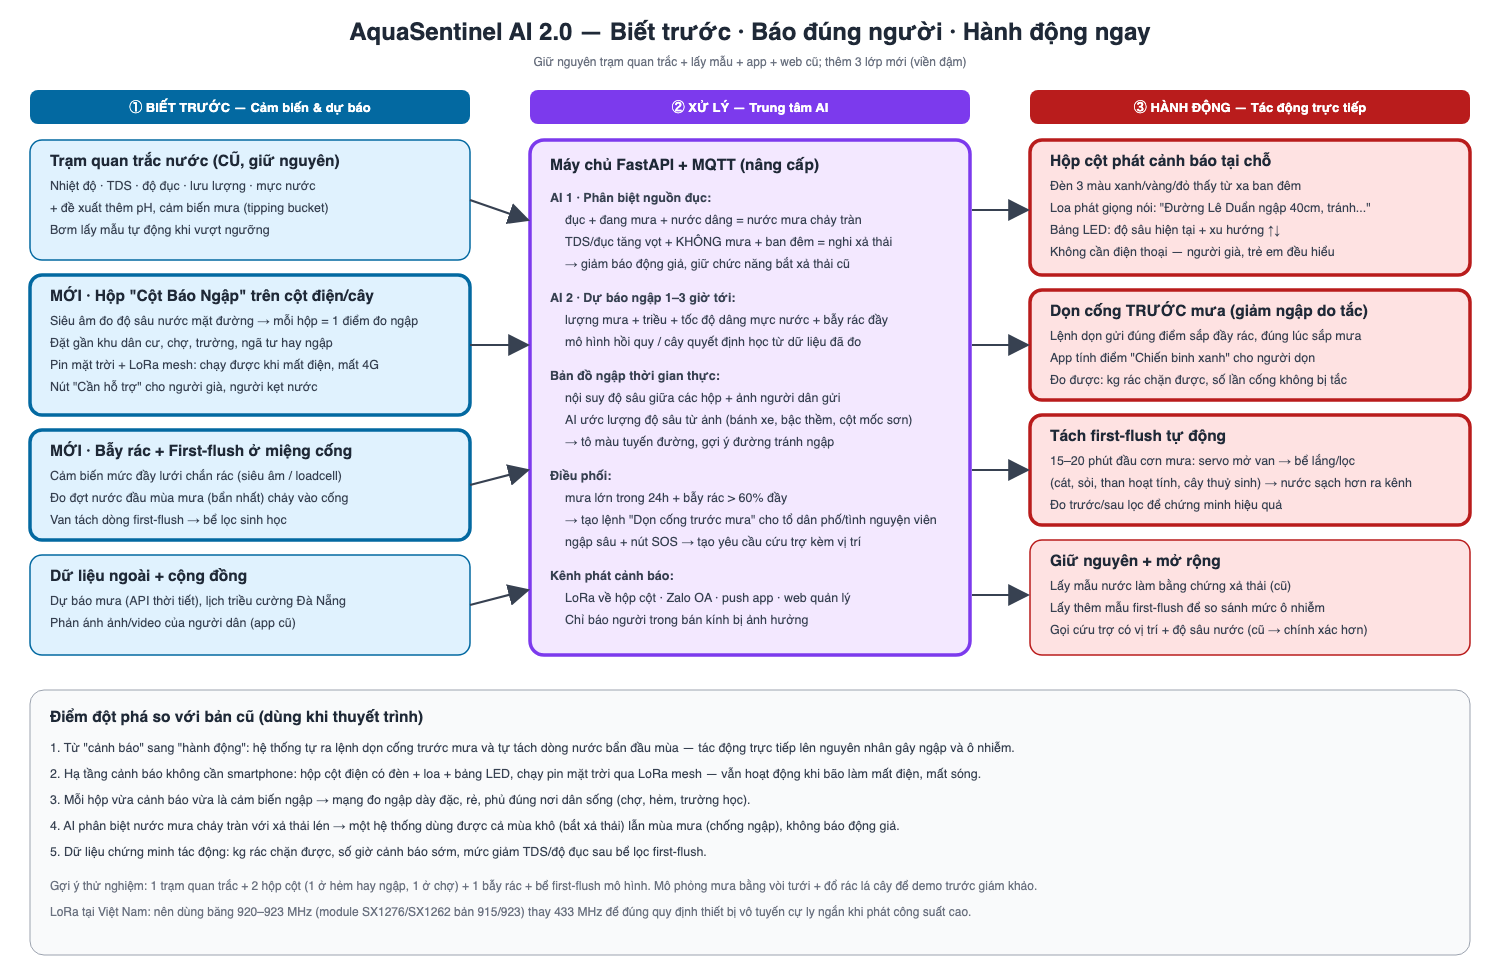
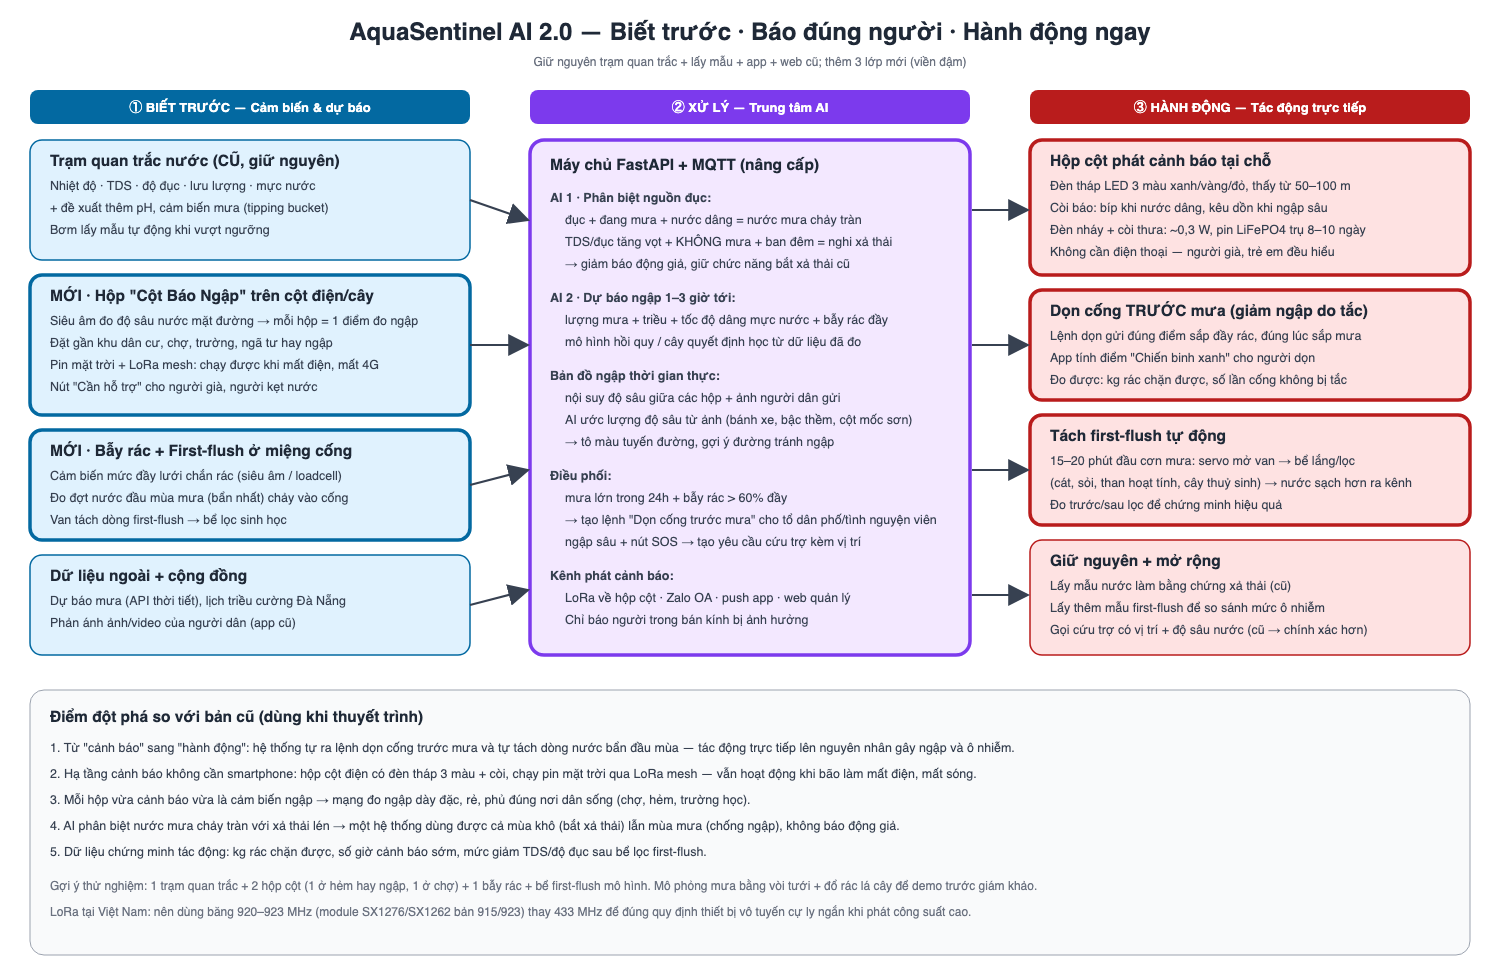
aquasentinel-2: beacon uses 3-colour tower light + buzzer, LiFePO4 power, full BOM

Changed region(s): [[0.7053, 0.1837, 0.92, 0.2449], [0.276, 0.7653, 0.644, 0.7959]]

diff --git a/aquasentinel-2/diagram.html b/aquasentinel-2/diagram.html
@@ -63,9 +63,9 @@ text{fill:#1f2937;font-size:14px}.t{font-weight:700;font-size:15.5px}.s{font-siz
 <!-- col 3 -->
 <rect x="1030" y="140" width="440" height="135" rx="12" fill="#fee2e2" stroke="#b91c1c" stroke-width="3.5"/>
 <text x="1050" y="166" class="t">Hộp cột phát cảnh báo tại chỗ</text>
-<text x="1050" y="190" class="s">Đèn 3 màu xanh/vàng/đỏ thấy từ xa ban đêm</text>
-<text x="1050" y="212" class="s">Loa phát giọng nói: "Đường Lê Duẩn ngập 40cm, tránh..."</text>
-<text x="1050" y="234" class="s">Bảng LED: độ sâu hiện tại + xu hướng ↑↓</text>
+<text x="1050" y="190" class="s">Đèn tháp LED 3 màu xanh/vàng/đỏ, thấy từ 50–100 m</text>
+<text x="1050" y="212" class="s">Còi báo: bíp khi nước dâng, kêu dồn khi ngập sâu</text>
+<text x="1050" y="234" class="s">Đèn nháy + còi thưa: ~0,3 W, pin LiFePO4 trụ 8–10 ngày</text>
 <text x="1050" y="256" class="s">Không cần điện thoại — người già, trẻ em đều hiểu</text>
 
 <rect x="1030" y="290" width="440" height="110" rx="12" fill="#fee2e2" stroke="#b91c1c" stroke-width="3.5"/>
@@ -96,7 +96,7 @@ text{fill:#1f2937;font-size:14px}.t{font-weight:700;font-size:15.5px}.s{font-siz
 <rect x="30" y="690" width="1440" height="265" rx="14" fill="#f9fafb" stroke="#9ca3af"/>
 <text x="50" y="722" class="t">Điểm đột phá so với bản cũ (dùng khi thuyết trình)</text>
 <text x="50" y="752" class="s">1. Từ "cảnh báo" sang "hành động": hệ thống tự ra lệnh dọn cống trước mưa và tự tách dòng nước bẩn đầu mùa — tác động trực tiếp lên nguyên nhân gây ngập và ô nhiễm.</text>
-<text x="50" y="778" class="s">2. Hạ tầng cảnh báo không cần smartphone: hộp cột điện có đèn + loa + bảng LED, chạy pin mặt trời qua LoRa mesh — vẫn hoạt động khi bão làm mất điện, mất sóng.</text>
+<text x="50" y="778" class="s">2. Hạ tầng cảnh báo không cần smartphone: hộp cột điện có đèn tháp 3 màu + còi, chạy pin mặt trời qua LoRa mesh — vẫn hoạt động khi bão làm mất điện, mất sóng.</text>
 <text x="50" y="804" class="s">3. Mỗi hộp vừa cảnh báo vừa là cảm biến ngập → mạng đo ngập dày đặc, rẻ, phủ đúng nơi dân sống (chợ, hẻm, trường học).</text>
 <text x="50" y="830" class="s">4. AI phân biệt nước mưa chảy tràn với xả thải lén → một hệ thống dùng được cả mùa khô (bắt xả thải) lẫn mùa mưa (chống ngập), không báo động giả.</text>
 <text x="50" y="856" class="s">5. Dữ liệu chứng minh tác động: kg rác chặn được, số giờ cảnh báo sớm, mức giảm TDS/độ đục sau bể lọc first-flush.</text>

diff --git a/aquasentinel-2/README.md b/aquasentinel-2/README.md
@@ -30,7 +30,7 @@
 ### ③ Hành động trực tiếp (phần "đột phá")
 | Tác động | Cách làm | Đo hiệu quả bằng |
 |---|---|---|
-| Cảnh báo tại chỗ, không cần điện thoại | Hộp cột: tấm LED 8x32 chạy chữ đổi màu xanh/vàng/đỏ, hiện độ sâu và lời khuyên ([flood_beacon.ino](flood_beacon.ino)) | Số phút cảnh báo sớm trước khi ngập |
+| Cảnh báo tại chỗ, không cần điện thoại | Hộp cột: đèn tháp LED 3 màu có còi. Xanh chớp = an toàn, vàng nháy + bíp = nước đang dâng, đỏ nháy + còi = không đi qua ([flood_beacon.ino](flood_beacon.ino)) | Số phút cảnh báo sớm trước khi ngập |
 | **Dọn cống TRƯỚC mưa** | Sắp mưa lớn trong 24h và bẫy rác > 60% thì tự tạo lệnh dọn cho tổ dân phố/tình nguyện viên. App tính điểm "Chiến binh xanh" | kg rác chặn được, số lần cống không tắc |
 | **Giữ nước mưa đợt đầu tại cửa xả** | Gắn hộp tại giếng tách dòng của cửa xả ven biển: mưa bắt đầu thì đóng cửa phai ra biển, bơm đợt đầu vào cống bao; nước trong lại thì mở; nước dâng cao thì mở ngay chống ngập ([FIRST_FLUSH.md](FIRST_FLUSH.md)) | Độ đục/TDS nước ra biển khi có và không có hệ thống |
 | Cứu trợ chính xác | Nút SOS trên hộp cột gửi vị trí + độ sâu nước thật | Thời gian phản hồi yêu cầu |
@@ -41,31 +41,90 @@
 
 ## 4. Mô hình demo trước giám khảo
 - 1 trạm quan trắc (cũ) + 2 hộp cột (1 ở hẻm hay ngập, 1 ở chợ) + 1 bẫy rác + mô hình cửa xả + giếng tách dòng bằng hộp mica.
-- Mô phỏng mưa bằng bình tưới. Đổ lá cây/rác vào lưới để kích hoạt lệnh dọn. Dâng nước trong khay để chữ trên hộp cột chuyển vàng rồi đỏ ("NGAP 35cm - KHONG DI QUA").
+- Mô phỏng mưa bằng bình tưới. Đổ lá cây/rác vào lưới để kích hoạt lệnh dọn. Dâng nước trong khay để đèn hộp cột chuyển vàng rồi đỏ, còi kêu.
 
 ## 5. Linh kiện thêm (ước tính)
 | Hạng mục | Linh kiện | Giá tham khảo |
 |---|---|---|
-| Hộp cột (mỗi hộp) | ESP32, LoRa SX1276 923MHz, JSN-SR04T, tấm LED WS2812B 8x32 dẻo (~200k), mạch hạ áp 5V 3A, tụ 1000µF, nút nhấn chống nước, pin 18650 x2 + tấm pin mặt trời 6V, hộp IP65 | ~600–800k |
+| Hộp cột (mỗi hộp) | Xem danh sách đầy đủ ở mục 6 | ~1,9–2,7 tr (bản demo bàn ~1,1–1,4 tr) |
 | Bẫy rác | Lưới inox, siêu âm hoặc loadcell 20kg + HX711 | ~200k |
 | Cửa xả thông minh | ESP32 + LoRa, tipping bucket, độ đục SEN0189, JSN-SR04T, servo + mica, bơm mini | ~950k |
 | Trạm cũ bổ sung | Cảm biến pH analog, cảm biến mưa tipping bucket | ~400k |
 
-## 6. Đấu nối hộp cột (tấm LED chạy chữ)
-Bỏ DFPlayer + loa + dải 12 LED. Tấm LED chỉ cần 3 dây:
+## 6. Hộp cột: đèn tháp 3 màu có còi
 
-| Tấm WS2812B 8x32 | Nối tới |
-|---|---|
-| 5V (dây đỏ) | 5V của mạch hạ áp 5V 3A, **không** lấy từ chân 5V của ESP32 |
-| GND (dây trắng/đen) | GND chung với ESP32 |
-| DIN (dây xanh, đầu có mũi tên vào) | GPIO27 qua điện trở 330Ω |
+### Vì sao bỏ tấm LED chạy chữ
+| | Tấm WS2812B 8x32 | Đèn tháp LED 3 màu + còi |
+|---|---|---|
+| Ngoài trời | Phải nằm sau mặt kính, nắng gắt khó đọc, LED dễ chết lẻ | Vỏ IP65, thiết kế cho nhà xưởng/ngoài trời |
+| Nhìn từ xa | Chữ nhỏ, phải lại gần mới đọc | Thấy màu từ 50–100 m, cả khi mưa |
+| Người không đọc được chữ / trẻ em / ban đêm | Khó hiểu | Xanh–vàng–đỏ ai cũng hiểu, còi báo cả người không nhìn |
+| Điện | 1,5–3 W liên tục | ~0,3–0,4 W trung bình (đèn nháy, còi thưa) |
+| Dây | 5V lớn + tín hiệu nhạy nhiễu | 12V, 5 dây, bật/tắt đơn giản |
 
-- Tụ 1000µF 10V cắm ngang 5V–GND ngay đầu tấm LED, chống sụt áp lúc bật.
-- Pin 2×18650 (7.4V) → mạch hạ áp → 5V cho tấm LED và chân 5V/VIN của ESP32.
-- Độ sáng 60/255 tốn khoảng 0.3–0.6A. Để 255 trắng toàn tấm sẽ lên ~15A, không dùng.
-- Nếu tấm chập chờn: dây DIN ngắn dưới 20cm, hoặc thêm IC 74AHCT125 nâng tín hiệu 3.3V lên 5V.
-- Chữ bị ngược/lộn: sửa `NEO_MATRIX_TOP`/`LEFT` trong code (tấm mỗi hãng đi dây khác nhau).
-- Font không có dấu nên chữ viết không dấu. Muốn ghép thêm 1 tấm cho dài hơn: nối DOUT tấm 1 vào DIN tấm 2 và đổi `32` thành `64`.
+### Cách báo
+| Mức | Đèn | Còi |
+|---|---|---|
+| An toàn | Xanh chớp 0,1 s mỗi 5 s ("hộp đang sống") | Tắt |
+| Chú ý (≥ 10 cm hoặc trung tâm dự báo) | Vàng nháy 1 Hz | Bíp dồn 10 s khi vừa lên mức, sau đó 1 bíp / 2 phút |
+| Nguy hiểm (≥ 30 cm) | Đỏ nháy 2 Hz | Kêu dồn 10 s, sau đó 3 bíp / 30 s |
+| Vừa bấm SOS | 3 màu chạy vòng 30 s | Bíp ngắn mỗi 2 s |
+| Bật nguồn | Đỏ → vàng → xanh + 1 bíp (tự kiểm) | |
+
+### Đấu nối
+```
+Tấm pin 10W 18V ─[TVS SMBJ24A]─ Bộ sạc solar 12V (chế độ LiFePO4) ─ Pin LiFePO4 12,8V 6Ah
+                                          │ (cổng LOAD)
+                                    [Cầu chì 2A] ── BUS 12V ──┬── dây CHUNG đèn tháp (+12V)
+                                                              ├── ULN2003 chân 9 (COM, chống xung ngược của còi)
+                                                              └── Buck 12V→5V ── ESP32 VIN, JSN-SR04T 5V
+                                                                    (tụ 470µF 25V ở đầu vào buck)
+ESP32 GPIO27 → ULN2003 IN1 → OUT1 → dây ĐỎ
+ESP32 GPIO4  → ULN2003 IN2 → OUT2 → dây VÀNG
+ESP32 GPIO13 → ULN2003 IN3 → OUT3 → dây XANH
+ESP32 GPIO16 → ULN2003 IN4 → OUT4 → dây CÒI
+ULN2003 chân 8 (GND) ── GND chung ESP32 ── âm pin
+JSN-SR04T: TRIG → GPIO32; ECHO → 1kΩ → GPIO33, GPIO33 → 2kΩ → GND (hạ 5V xuống 3,3V)
+Nút SOS: GPIO25 ↔ GND (dùng điện trở kéo lên trong ESP32)
+LoRa SX1276: NSS 5, RST 14, DIO0 26, SCK 18, MISO 19, MOSI 23, 3,3V
+```
+- **Mua đèn loại 12VDC, CHUNG DƯƠNG** (dây đen/chung nối +12V, từng màu nối xuống GND thì sáng). Đa số đèn tháp mini LTA-205 bản DC là loại này, nhưng hỏi shop hoặc thử bằng nguồn 12V trước khi đấu. Mua nhầm loại chung âm thì thay ULN2003 bằng module 4 relay.
+- ULN2003 chịu 500 mA/kênh, thừa cho đèn LED (~20–50 mA/màu) và còi (~20–40 mA).
+- Ước tính điện: ESP32 + LoRa nghe ~0,25–0,3 W, đèn + còi trung bình < 0,1 W → ~7–9 Wh/ngày. Pin 6Ah (~77 Wh) giữ được **~8–10 ngày mưa không có nắng**; tấm 10 W sạc bù đủ trong 1 ngày nắng.
+
+### Tăng độ bền
+- Pin **LiFePO4** thay 18650: chịu nóng trong hộp phơi nắng tốt hơn, không phồng/cháy, ~2000 chu kỳ.
+- Hộp IP65 + **nút thông hơi chống nước** (chống đọng hơi nước làm rỉ mạch) + gói hút ẩm.
+- Dây ra vào qua **ốc siết cáp**, khoan lỗ dưới đáy hộp, không khoan mặt trên.
+- **Sơn phủ mạch** (conformal coating) sau khi test xong.
+- **TVS** ở đầu tấm pin chống xung sét lan truyền; cầu chì 2A đầu nhánh tải.
+- Đèn tháp gắn **dưới mái che** nhỏ, cảm biến siêu âm có ống che mưa, treo bằng đai inox.
+
+### Danh sách linh kiện cần mua (1 hộp)
+| # | Linh kiện | SL | Giá tham khảo |
+|---|---|---|---|
+| 1 | ESP32 DevKit V1 (ESP32-WROOM-32) | 1 | 90–130k |
+| 2 | LoRa SX1276 băng 915/923 MHz (vd. RA-01H) + anten 923 MHz SMA + dây pigtail | 1 | 180–260k |
+| 3 | Cảm biến siêu âm chống nước JSN-SR04T | 1 | 90–140k |
+| 4 | Đèn tháp LED 3 màu có còi 12VDC, chung dương, IP65 (vd. dòng LTA-205-3 có còi) | 1 | 150–350k |
+| 5 | IC ULN2003A + đế 16 chân (hoặc module ULN2003) | 1 | 10–25k |
+| 6 | Mạch hạ áp 12V → 5V (MP1584 / LM2596) | 1 | 20–40k |
+| 7 | Pin LiFePO4 12,8V 6Ah | 1 | 450–700k |
+| 8 | Tấm pin mặt trời 10W 18V | 1 | 200–300k |
+| 9 | Bộ sạc solar 12V 10A có chế độ Lithium/LiFePO4 | 1 | 120–220k |
+| 10 | Nút nhấn chống nước IP67 Ø16 | 1 | 30–60k |
+| 11 | Hộp nhựa chống nước IP65 ~200×150×100 | 1 | 120–200k |
+| 12 | Ốc siết cáp PG7 ×4, PG9 ×2 | 6 | 25–40k |
+| 13 | Nút thông hơi chống nước M12 | 1 | 20–40k |
+| 14 | Cầu chì + đế 2A, TVS SMBJ24A, tụ 470µF 25V ×2, tụ 100nF ×4 | — | 30–50k |
+| 15 | Điện trở 1kΩ, 2kΩ (chia áp ECHO) | 2 | ~2k |
+| 16 | PCB đục lỗ, header, dây 0,5 mm², đầu cos, co nhiệt | — | 50–80k |
+| 17 | Đai inox ôm cột + pát gắn + mái che đèn | — | 100–150k |
+| 18 | Gói hút ẩm silica, sơn phủ mạch | — | 50–80k |
+| | **Tổng** | | **~1,9–2,7 tr** |
+
+**Bản demo trên bàn:** bỏ mục 7, 8, 9, 13, 17, 18, thay bằng adapter 12V 1A (~60k) → **~1,1–1,4 tr**.
+Chưa gồm gateway LoRa ở trung tâm (dùng chung cho nhiều hộp).
 
 ## 7. Lưu ý kỹ thuật
 - **Tần số LoRa:** Việt Nam dùng băng 920–923 MHz (AS923) cho LoRa. Nên đổi RA-02 433 MHz sang module 915/923 MHz.
@@ -73,7 +132,7 @@ Bỏ DFPlayer + loa + dải 12 LED. Tấm LED chỉ cần 3 dây:
 - **Bảo mật tài liệu:** bản PDF hiện có ghi tên và mật khẩu Wi-Fi thật. Nên xóa trước khi nộp hoặc chia sẻ công khai.
 
 ## Files
-- `flood_beacon.ino`: firmware hộp Cột Báo Ngập (ESP32 + LoRa + siêu âm + tấm LED chạy chữ + SOS)
+- `flood_beacon.ino`: firmware hộp Cột Báo Ngập (ESP32 + LoRa + siêu âm + đèn tháp 3 màu có còi + SOS)
 - [HO_GA_THU_DONG.md](HO_GA_THU_DONG.md): hố ga thụ động (lưới Coanda + ngăn đợt đầu bóng phao + van Tesla), không cần điện
 - `first_flush.ino`: firmware Cửa Xả Thông Minh, hướng dẫn ở [FIRST_FLUSH.md](FIRST_FLUSH.md)
 - `classify.py`: luật AI phân biệt chảy tràn / xả thải và điểm nguy cơ ngập (có self-test: `python3 classify.py`)
